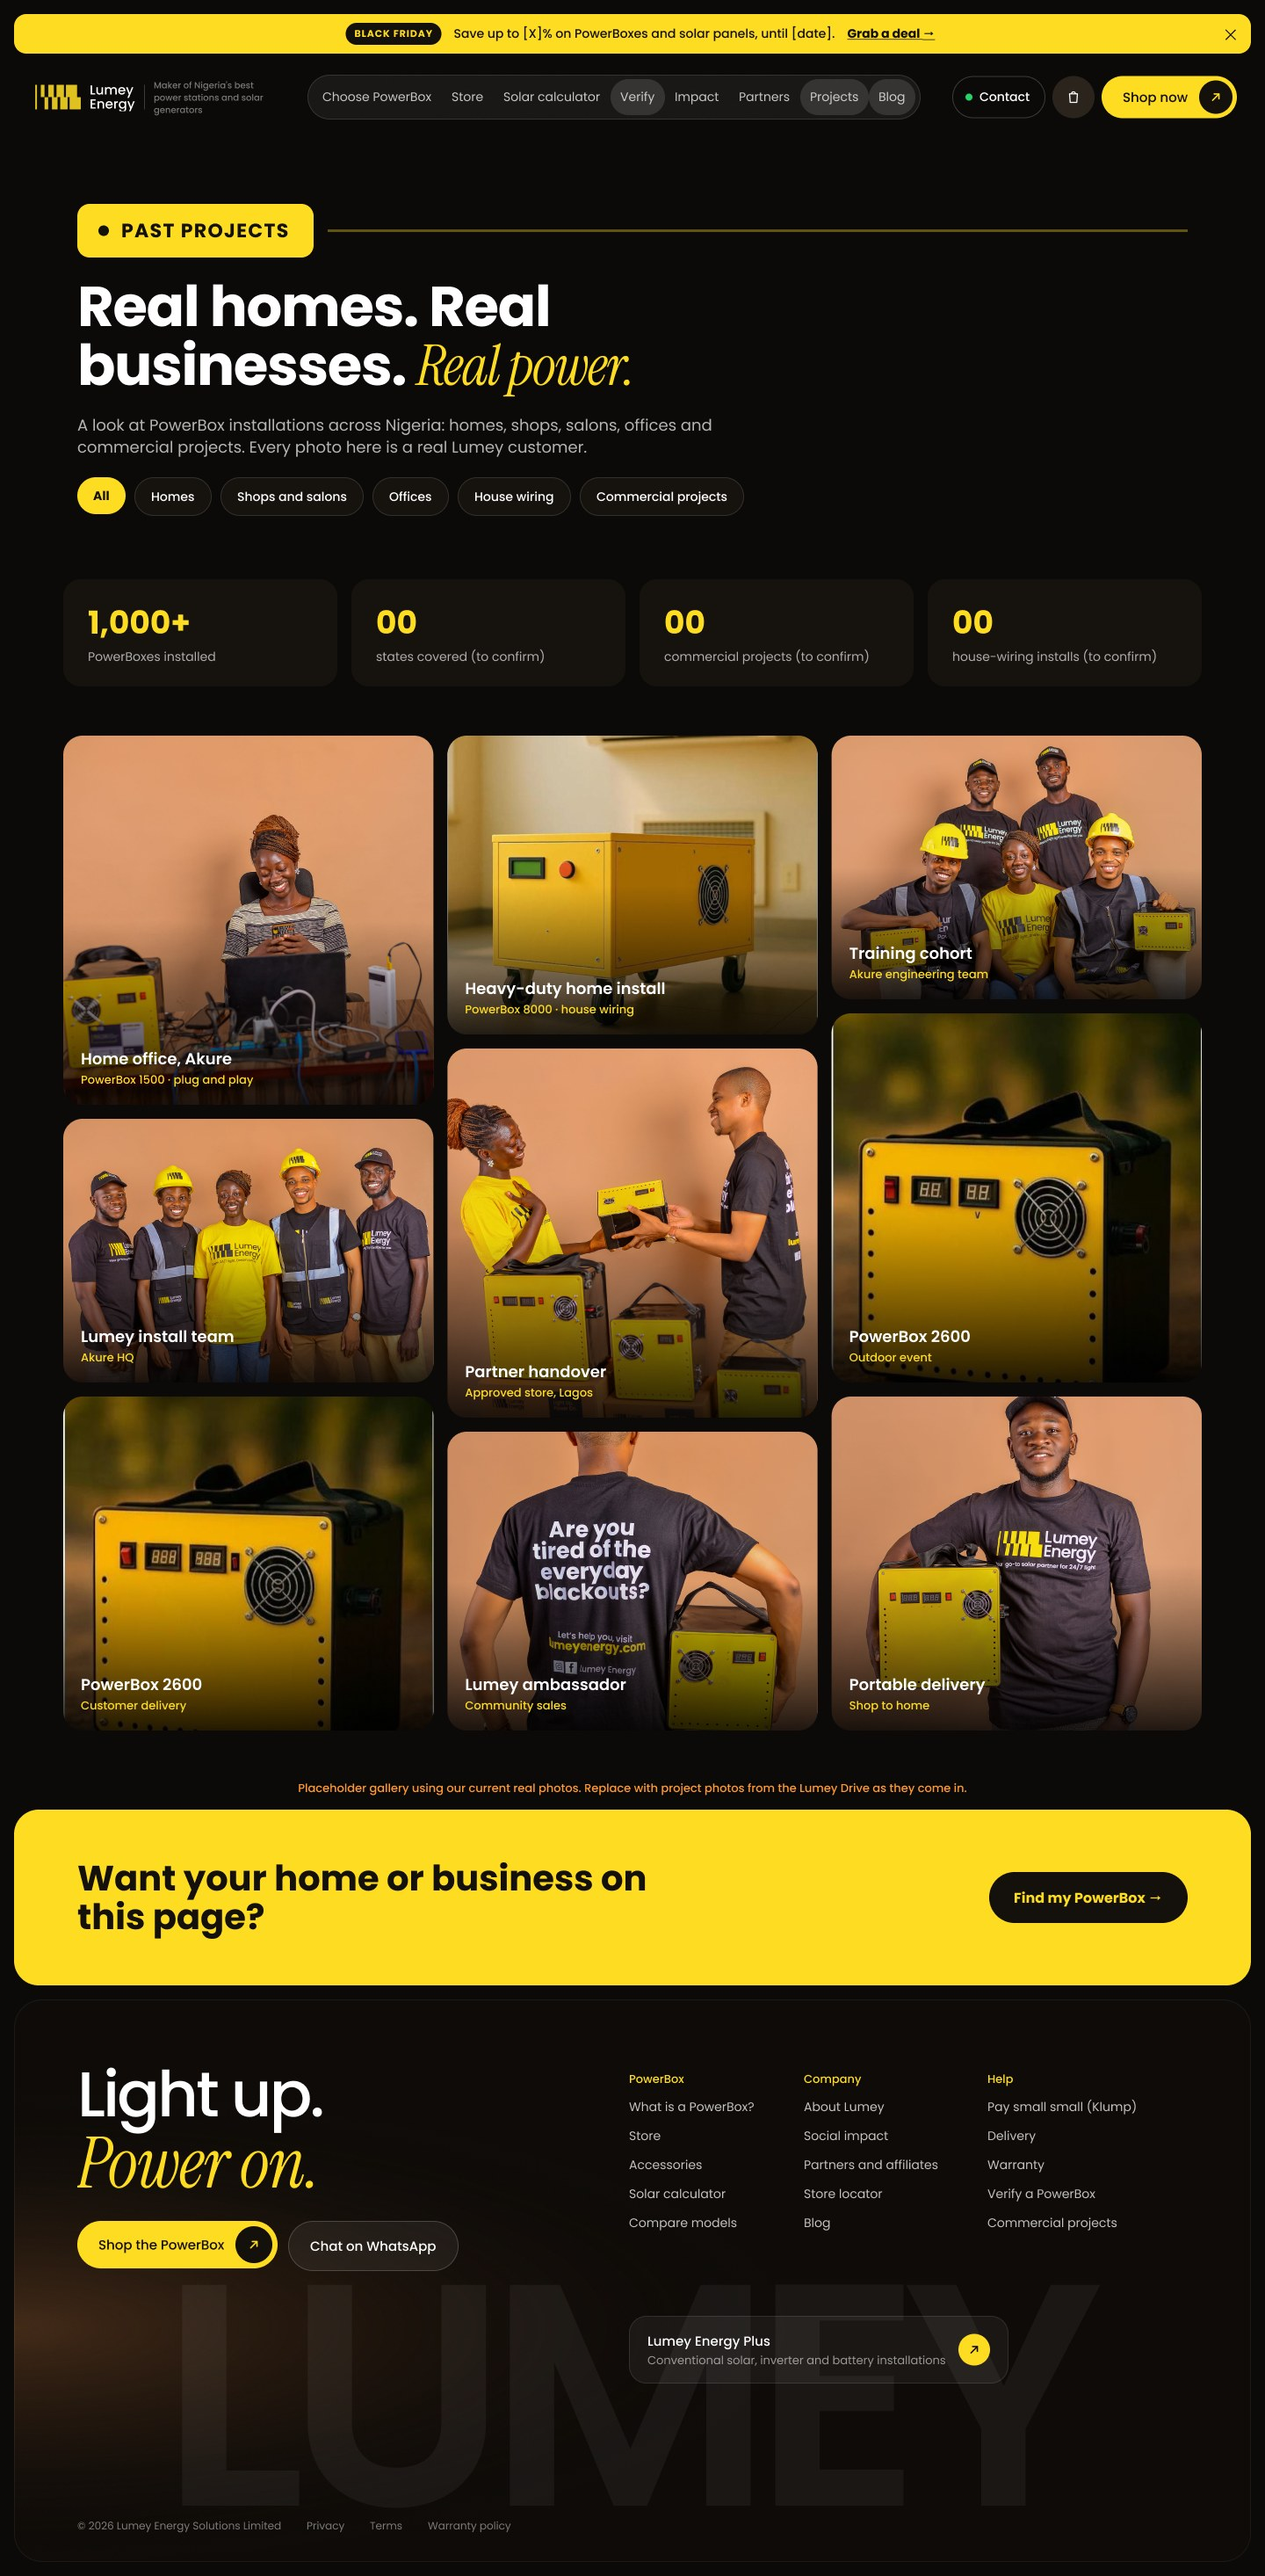
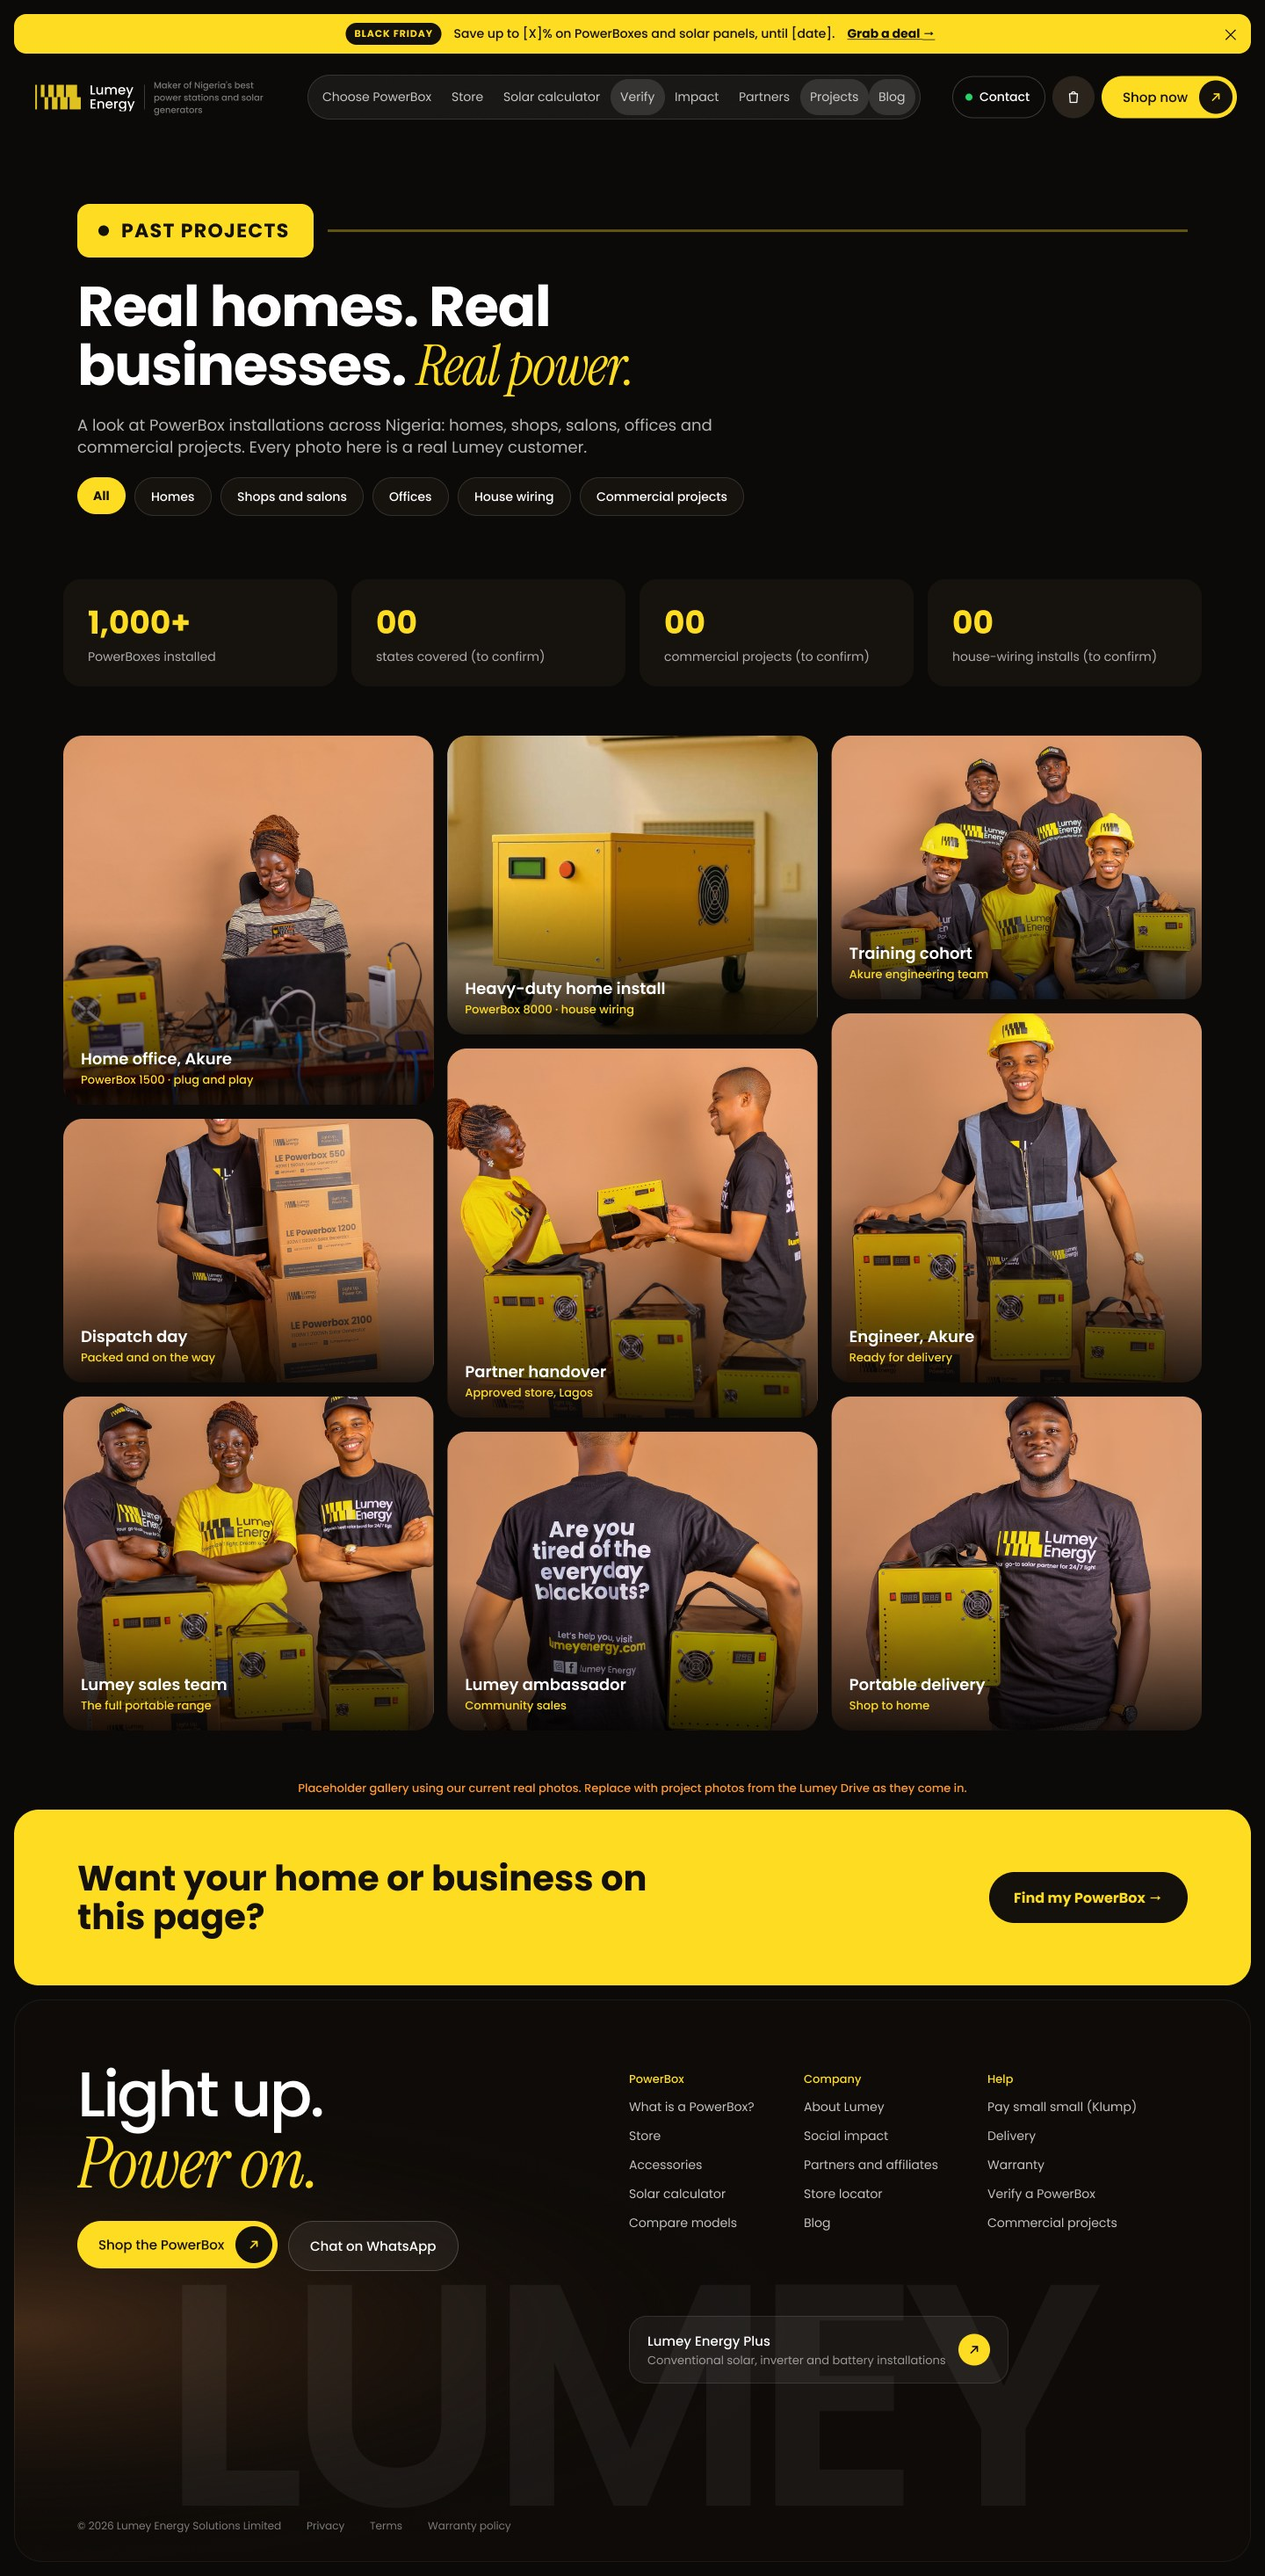
Add Lumey photo shoot images and use new real photos in the gallery
Claude-Session: https://claude.ai/code/session_018Paxg3TNHJenuF2Ez91Xeu

Changed region(s): [[0.0312, 0.4347, 0.3438, 0.683], [0.6562, 0.3726, 0.9688, 0.5589]]

diff --git a/design/handoff/DEVELOPER-GUIDE.md b/design/handoff/DEVELOPER-GUIDE.md
@@ -151,3 +151,11 @@ About 1 hour, screen-share the Figma file:
 8. Agree check-ins: a daily short update, and a design review of each finished page.
 
 Questions during the build go to the designer as comments on the relevant Figma frame.
+
+---
+
+## 10. Photo shoot images
+
+The full Lumey studio shoot is in `design/ai-references/6-lumey-photo-shoot/` (22 photos, resized to 1600px). The originals, 2400×3600, are in the PDF the team shared.
+
+**Naming check:** the product cartons in the shoot are labelled **LE Powerbox 550** (400W / 550Wh), **LE Powerbox 1200** (800W / 1200Wh) and **LE Powerbox 2100** (1500W / 2100Wh). The website uses the 600 / 1500 / 1900 / 2600 / 3100 naming. Confirm the final model names and specs with Lumey before building the product data.
